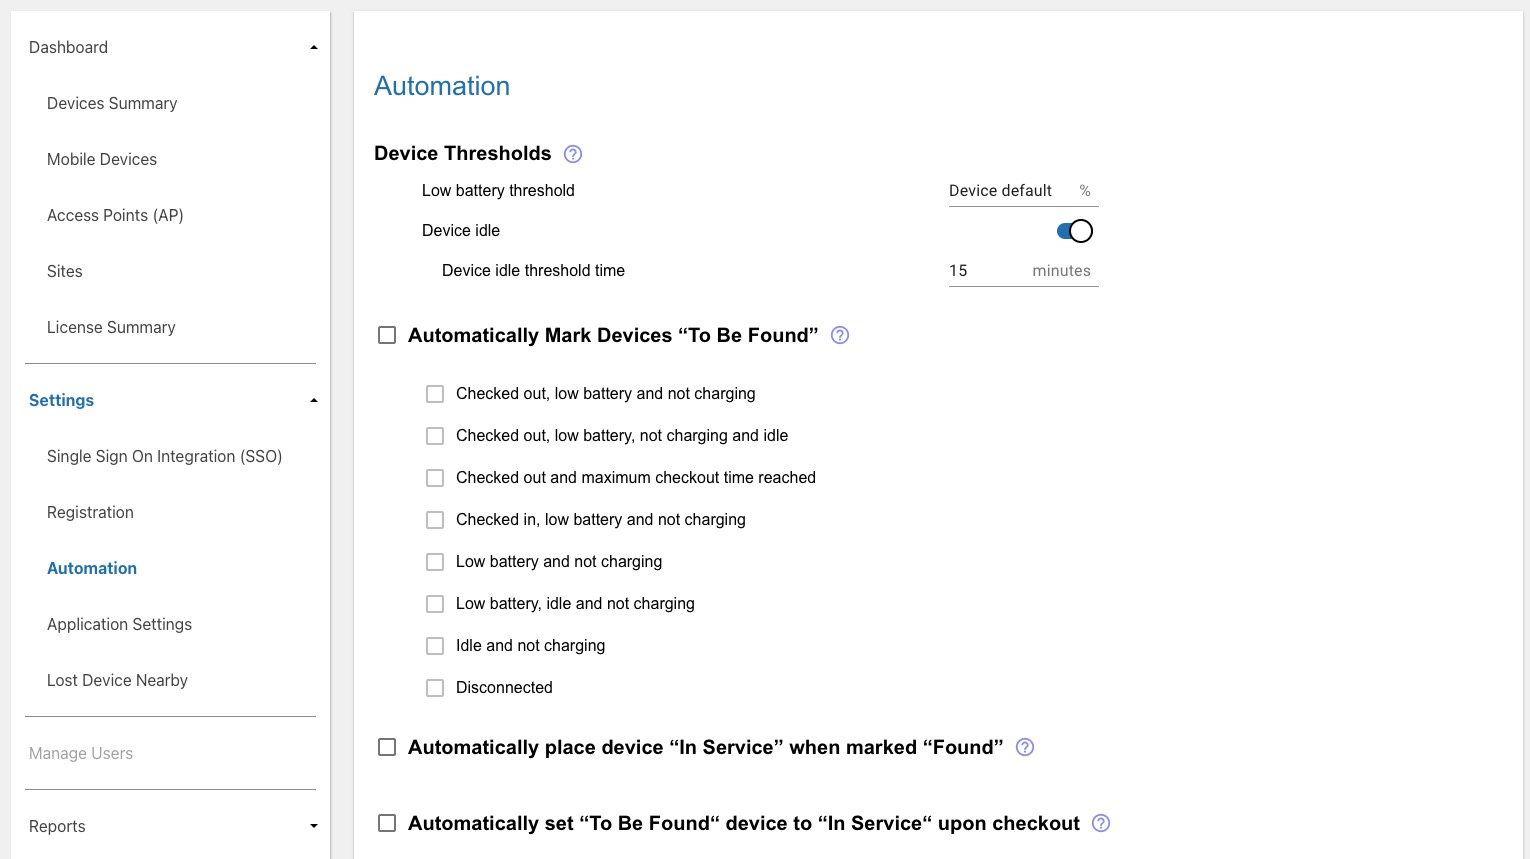
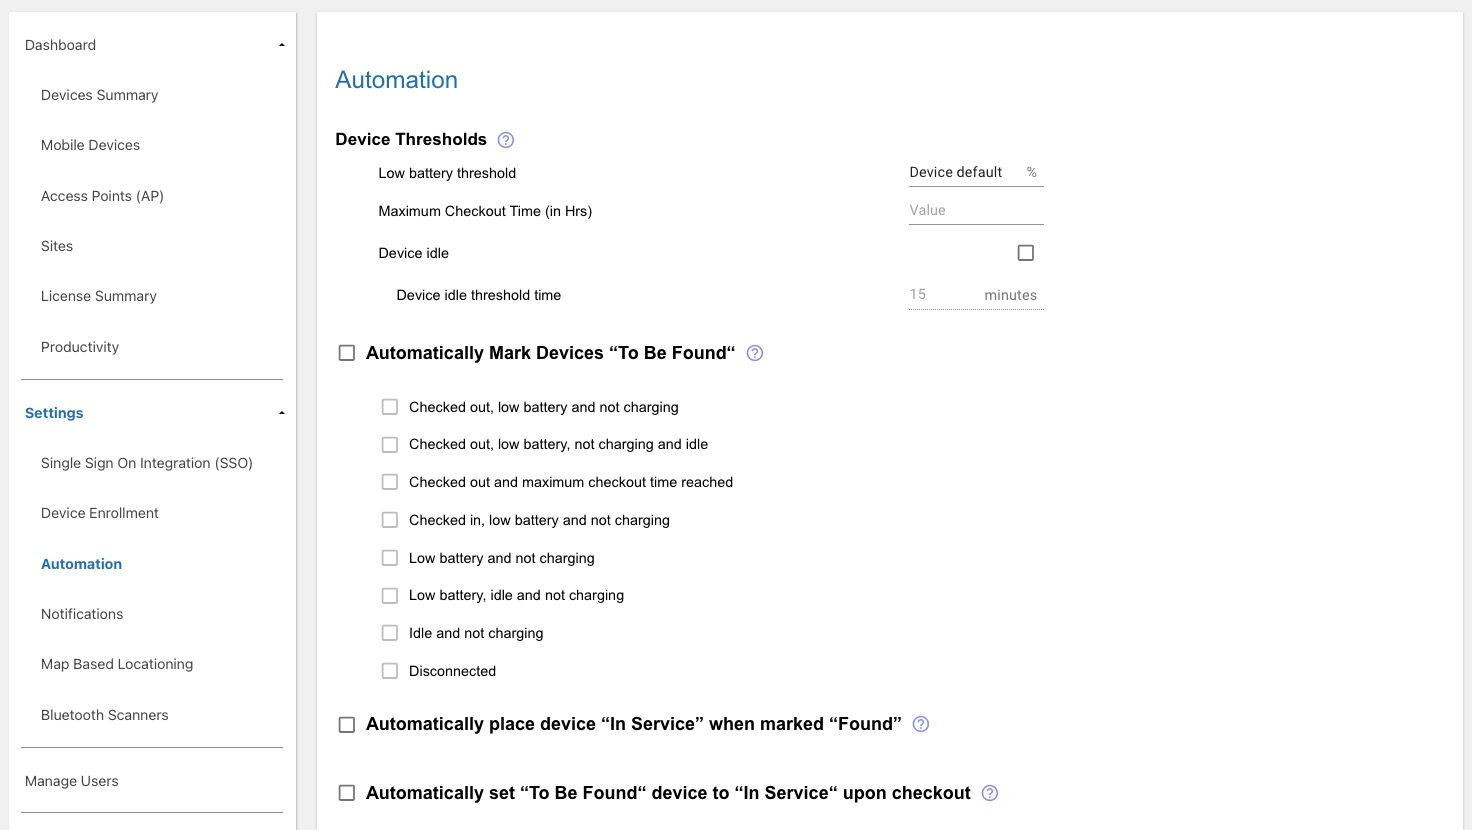
[DLM-32699/DLM-33030] DT - Remove barcode prefix, checkin, replace screens/Add map location trigger events

diff --git a/devicetracker/6-2/guide/config/index.html b/devicetracker/6-2/guide/config/index.html
@@ -311,8 +311,6 @@
 
 <li><a href="#devicetositeassignment">Configure Device-to-Site Assignment</a> (optional)</li>
 
-<li><a href="#checkoutbarcodeprefix">Set Barcode Prefix</a> (optional)</li>
-
 <li><a href="#automation">Configure Workflow Automation</a> (optional)</li>
 
 <li><a href="#reports">Generate Reports</a> (optional)</li>
@@ -328,6 +326,7 @@
 </ul>
 
 <!-- // Removed
+- [Set Barcode Prefix](#checkoutbarcodeprefix) (optional)
 - [Configure Device Checkin/Checkout](#checkincheckoutdevice) (optional) -->
 
 <h3 id="managerrole" class="anchor"><a class="heading-anchor" href="#managerrole"><span></span></a>Manager Role</h3>
@@ -1524,7 +1523,7 @@ Sample device .CSV file content:</p>
 <li><p>Check the box next to the device to modify. The <strong>Actions</strong> menu appears.</p></li>
 
 <li><p>From the <strong>Actions</strong> dropdown, select the desired action based on the Edit or Tracking category (options may vary depending on the state of the device):
-<img alt="image" style="" src="modify-device-manual.png">
+<img alt="image" style="" src="modify-device-manual.jpg">
 <strong>Edit:</strong></p>
 
 <ul>
@@ -1542,8 +1541,6 @@ Sample device .CSV file content:</p>
 <li><strong>Mark Device for Finding -</strong> This changes the device(s) status to <strong>To Be Found</strong>, placing the device in the <strong>To Be Found</strong> list used in the device search process.</li>
 
 <li><strong>Mark Device as InService -</strong> The device status is changed from <strong>To Be Found</strong> back to <strong>In Service.</strong></li>
-
-<li><strong>Checkin Device -</strong> Checks in the <a href="#checkout">checked out</a> device(s).</li>
 
 <li><strong>Add Notes -</strong> A dialog box appears prompting to enter notes or comments for the selected device(s).</li>
 
@@ -1855,13 +1852,19 @@ After device checkin from any of the above methods, the checkout screen appears 
 <li><p>Set the <strong>Device Thresholds:</strong></p>
 
 <ul>
-<li><strong>Low battery threshold -</strong> Specify the percentage (%) of battery capacity when the device reaches the Low Battery condition. If no value is specified, it defaults to the device’s low battery threshold.</li>
+<li><strong>Low Battery Threshold -</strong> Specify the percentage (%) of battery capacity when the device reaches the Low Battery condition. If no value is specified, it defaults to the device’s low battery threshold.</li>
 
-<li><strong>Device idle -</strong> Enable this option to track a device when it is stationary, or it has not physically moved. Specify the amount of time (in minutes) for the device to remain stationary before it is considered Idle. Default value: 15; minimum value: 5; maximum value: 10000.</li>
+<li><strong>Maximum Checkout Time (in Hrs) -</strong> Set the maximum checkout time in hours. When the set time is reached, the device is flagged in red on the dashboard for visibility to the administrator. </li>
 
-<li><strong>Maximum checkout time -</strong> Set the maximum checkout time (in hours). When the set time is reached, the device is flagged in red on the dashboard for visibility to the administrator. See <a href="#maximumcheckouttime">Maximum Checkout Time</a>.</li></ul></li>
+<li><strong>Device Idle -</strong> Enable this option to monitor a device when it is stationary, or when there is no physical movement detected by the accelerometer. 
 
-<li><p><strong>Automatically Mark Devices "To Be Found" -</strong> Enable this option and select the state(s) or combination of states for the device to be automatically marked "To be Found" when the selected state(s) is reached, rather than performing this manually. If a combination of states are selected, <em>all conditions</em> must be met for the device to be automatically marked <strong>To Be Found.</strong> If the selected state(s) is not reached, the device remains off the <strong>To Be Found</strong> list. Available states and combination of states:</p>
+
+<ul>
+<li><strong>Device Idle Threshold Time -</strong> Specify the duration in minutes that the device should remain stationary before it is categorized as <em>Idle</em>. Default value: 15; minimum value: 5; maximum value: 10000.</li></ul>
+
+<p></p></li></ul><p></p></li>
+
+<li><p><strong>Automatically Mark Devices "To Be Found" -</strong> Enable this option and select the state(s) or combination of states for the device to be automatically marked <strong>To Be Found</strong> when the selected state(s) is reached, rather than performing this manually. If a combination of states are selected, <em>all conditions</em> must be met for the device to be automatically marked <strong>To Be Found.</strong> If the selected state(s) is not reached, the device remains off the <strong>To Be Found</strong> list. Available states and combination of states:</p>
 
 <ul>
 <li>Checked out, low battery and not charging</li>
@@ -2065,7 +2068,21 @@ After device checkin from any of the above methods, the checkout screen appears 
 
 <h2 id="mapbasedlocationing" class="anchor"><a class="heading-anchor" href="#mapbasedlocationing"><span></span></a>Map Based Locationing</h2>
 
-<p><strong>Map Based Locationing</strong> provides GPS coordinates of the device, whether located indoors or outdoors, and maps the device location. <em>This feature is only supported on Android GMS devices.</em></p>
+<p><strong>Map Based Locationing</strong> provides the GPS coordinates of a device, regardless of whether it is located indoors or outdoors. It maps the device location, even when it is not connected to an access point. <em>This feature is only supported on Android GMS devices.</em></p>
+
+<p>The device location is updated based on the following events:</p>
+
+<ul>
+<li>Rebooting the device</li>
+
+<li>Establishing a connection to a Wi-Fi or cellular network</li>
+
+<li>Changes in the device charging state</li>
+
+<li>Low battery (at this point, the device location continues to update for every 2% battery drain)</li>
+
+<li>Manual refresh (e.g. from the web portal)</li>
+</ul>
 
 <p>To enable Map Based Locationing:</p>
 
